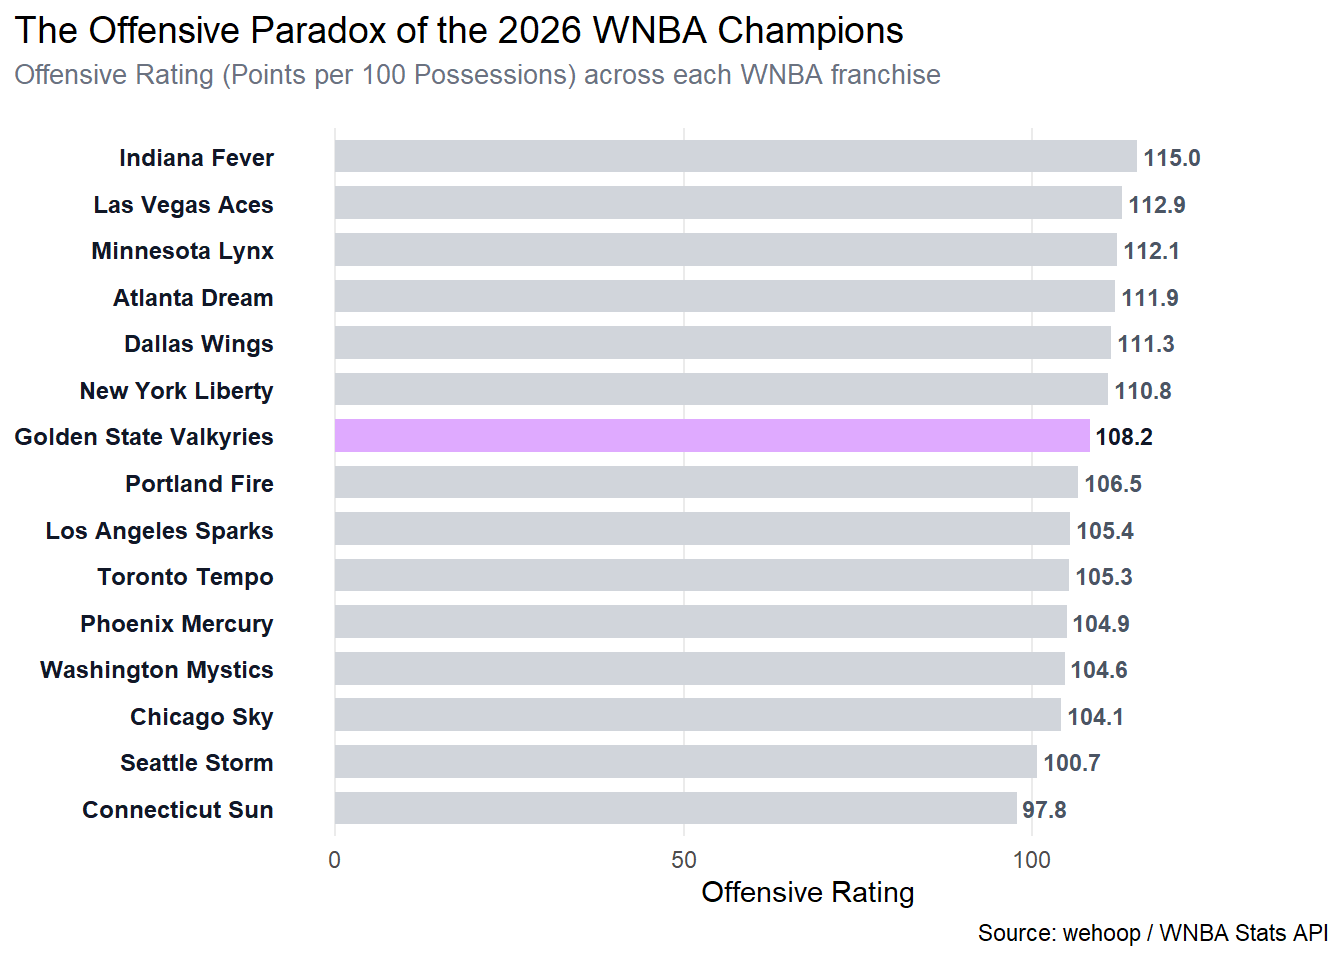
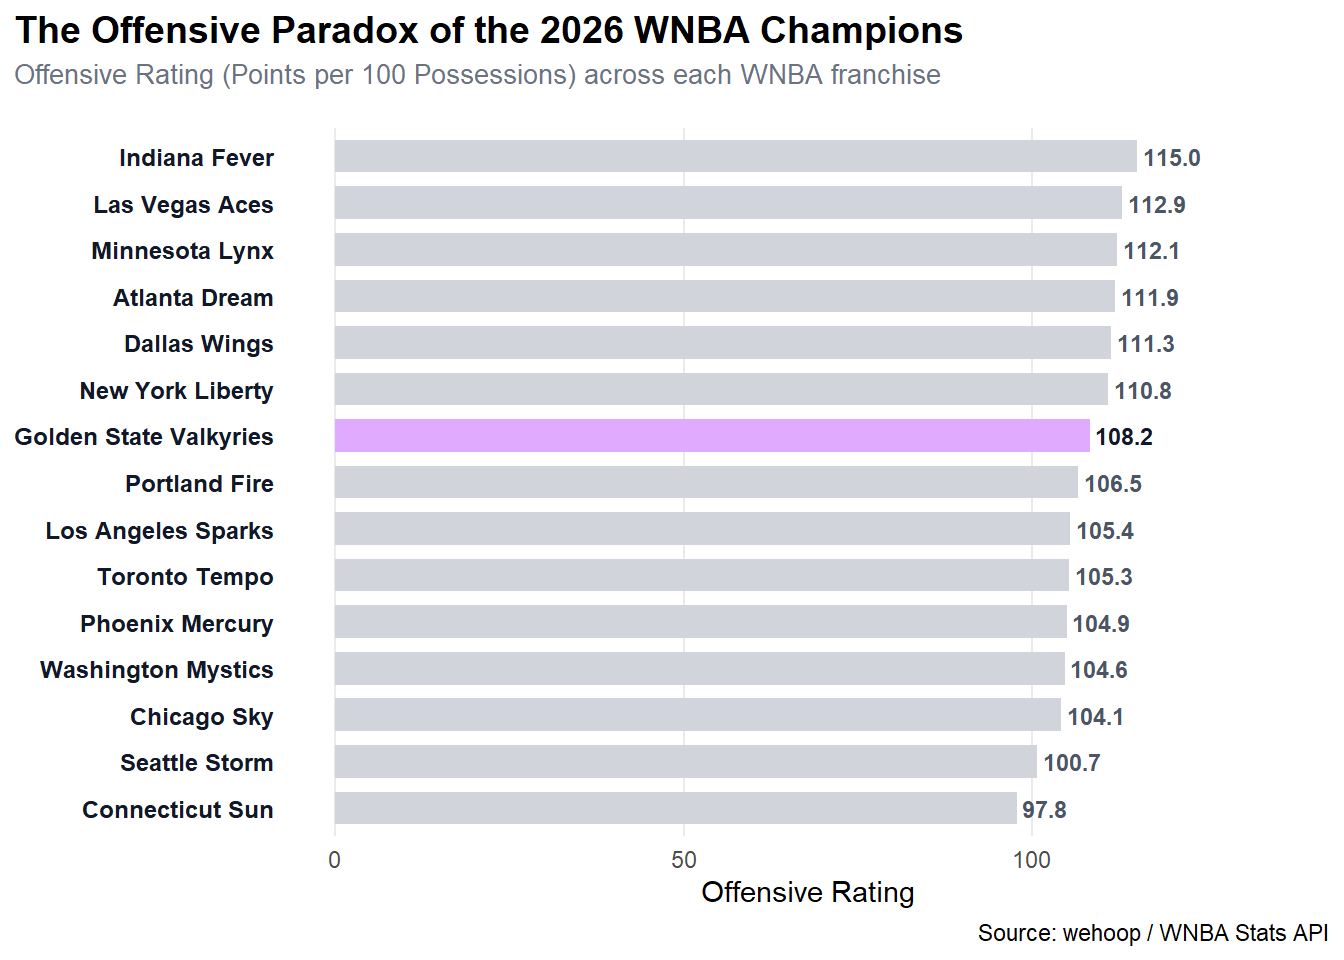
bolded graph titles

Changed region(s): [[0.0312, 0.0, 0.7188, 0.0625]]

diff --git a/posts/wnba-valkyries-champions/index.html b/posts/wnba-valkyries-champions/index.html
@@ -421,7 +421,7 @@ pre > code.sourceCode > span > a:first-child::before { text-decoration: underlin
 <span id="cb1-40"><a href="#cb1-40" aria-hidden="true" tabindex="-1"></a>  ) <span class="sc">+</span></span>
 <span id="cb1-41"><a href="#cb1-41" aria-hidden="true" tabindex="-1"></a>  <span class="fu">theme_minimal</span>(<span class="at">base_family =</span> <span class="st">"sans"</span>) <span class="sc">+</span></span>
 <span id="cb1-42"><a href="#cb1-42" aria-hidden="true" tabindex="-1"></a>  <span class="fu">theme</span>(</span>
-<span id="cb1-43"><a href="#cb1-43" aria-hidden="true" tabindex="-1"></a>    <span class="at">plot.title =</span> <span class="fu">element_markdown</span>(<span class="at">size =</span> <span class="dv">14</span>, <span class="at">margin =</span> <span class="fu">margin</span>(<span class="at">b =</span> <span class="dv">5</span>)),</span>
+<span id="cb1-43"><a href="#cb1-43" aria-hidden="true" tabindex="-1"></a>    <span class="at">plot.title =</span> <span class="fu">element_markdown</span>(<span class="at">size =</span> <span class="dv">14</span>, <span class="at">margin =</span> <span class="fu">margin</span>(<span class="at">b =</span> <span class="dv">5</span>), <span class="at">face =</span> <span class="st">"bold"</span>),</span>
 <span id="cb1-44"><a href="#cb1-44" aria-hidden="true" tabindex="-1"></a>    <span class="at">plot.subtitle =</span> <span class="fu">element_text</span>(<span class="at">size =</span> <span class="dv">10</span>, <span class="at">color =</span> <span class="st">"#6b7280"</span>, <span class="at">margin =</span> <span class="fu">margin</span>(<span class="at">b =</span> <span class="dv">15</span>)),</span>
 <span id="cb1-45"><a href="#cb1-45" aria-hidden="true" tabindex="-1"></a>    <span class="at">panel.grid.major.y =</span> <span class="fu">element_blank</span>(),</span>
 <span id="cb1-46"><a href="#cb1-46" aria-hidden="true" tabindex="-1"></a>    <span class="at">panel.grid.minor =</span> <span class="fu">element_blank</span>(),</span>
@@ -485,7 +485,7 @@ pre > code.sourceCode > span > a:first-child::before { text-decoration: underlin
 <span id="cb2-37"><a href="#cb2-37" aria-hidden="true" tabindex="-1"></a>  ) <span class="sc">+</span></span>
 <span id="cb2-38"><a href="#cb2-38" aria-hidden="true" tabindex="-1"></a>  <span class="fu">theme_minimal</span>(<span class="at">base_family =</span> <span class="st">"sans"</span>) <span class="sc">+</span></span>
 <span id="cb2-39"><a href="#cb2-39" aria-hidden="true" tabindex="-1"></a>  <span class="fu">theme</span>(</span>
-<span id="cb2-40"><a href="#cb2-40" aria-hidden="true" tabindex="-1"></a>    <span class="at">plot.title =</span> <span class="fu">element_markdown</span>(<span class="at">size =</span> <span class="dv">14</span>, <span class="at">margin =</span> <span class="fu">margin</span>(<span class="at">b =</span> <span class="dv">5</span>)),</span>
+<span id="cb2-40"><a href="#cb2-40" aria-hidden="true" tabindex="-1"></a>    <span class="at">plot.title =</span> <span class="fu">element_markdown</span>(<span class="at">size =</span> <span class="dv">14</span>, <span class="at">margin =</span> <span class="fu">margin</span>(<span class="at">b =</span> <span class="dv">5</span>), <span class="at">face =</span> <span class="st">"bold"</span>),</span>
 <span id="cb2-41"><a href="#cb2-41" aria-hidden="true" tabindex="-1"></a>    <span class="at">plot.subtitle =</span> <span class="fu">element_markdown</span>(<span class="at">size =</span> <span class="dv">10</span>, <span class="at">color =</span> <span class="st">"#6b7280"</span>, <span class="at">margin =</span> <span class="fu">margin</span>(<span class="at">b =</span> <span class="dv">15</span>)),</span>
 <span id="cb2-42"><a href="#cb2-42" aria-hidden="true" tabindex="-1"></a>    <span class="at">panel.grid.minor =</span> <span class="fu">element_blank</span>(),</span>
 <span id="cb2-43"><a href="#cb2-43" aria-hidden="true" tabindex="-1"></a>    <span class="at">plot.title.position =</span> <span class="st">"plot"</span></span>
@@ -557,7 +557,7 @@ pre > code.sourceCode > span > a:first-child::before { text-decoration: underlin
 <span id="cb3-44"><a href="#cb3-44" aria-hidden="true" tabindex="-1"></a>  ) <span class="sc">+</span></span>
 <span id="cb3-45"><a href="#cb3-45" aria-hidden="true" tabindex="-1"></a>  <span class="fu">theme_minimal</span>(<span class="at">base_family =</span> <span class="st">"sans"</span>) <span class="sc">+</span></span>
 <span id="cb3-46"><a href="#cb3-46" aria-hidden="true" tabindex="-1"></a>  <span class="fu">theme</span>(</span>
-<span id="cb3-47"><a href="#cb3-47" aria-hidden="true" tabindex="-1"></a>    <span class="at">plot.title =</span> <span class="fu">element_markdown</span>(<span class="at">size =</span> <span class="dv">14</span>, <span class="at">margin =</span> <span class="fu">margin</span>(<span class="at">b =</span> <span class="dv">5</span>)),</span>
+<span id="cb3-47"><a href="#cb3-47" aria-hidden="true" tabindex="-1"></a>    <span class="at">plot.title =</span> <span class="fu">element_markdown</span>(<span class="at">size =</span> <span class="dv">14</span>, <span class="at">margin =</span> <span class="fu">margin</span>(<span class="at">b =</span> <span class="dv">5</span>), <span class="at">face =</span> <span class="st">"bold"</span>),</span>
 <span id="cb3-48"><a href="#cb3-48" aria-hidden="true" tabindex="-1"></a>    <span class="at">plot.subtitle =</span> <span class="fu">element_text</span>(<span class="at">size =</span> <span class="dv">10</span>, <span class="at">color =</span> <span class="st">"#6b7280"</span>, <span class="at">margin =</span> <span class="fu">margin</span>(<span class="at">b =</span> <span class="dv">15</span>)),</span>
 <span id="cb3-49"><a href="#cb3-49" aria-hidden="true" tabindex="-1"></a>    <span class="at">panel.grid.minor =</span> <span class="fu">element_blank</span>(),</span>
 <span id="cb3-50"><a href="#cb3-50" aria-hidden="true" tabindex="-1"></a>    <span class="at">legend.position =</span> <span class="st">"right"</span>,</span>

diff --git a/index.html b/index.html
@@ -379,7 +379,7 @@ window.Quarto = {
 
 <div class="quarto-listing quarto-listing-container-default" id="listing-listing">
 <div class="list quarto-listing-default">
-<div class="quarto-post image-right" data-index="0" data-categories="UHJvamVjdCUyMDElMkNQcm9qZWN0JTIwMg==" data-listing-date-sort="1794549600000" data-listing-file-modified-sort="1794596712253" data-listing-date-modified-sort="NaN" data-listing-reading-time-sort="9" data-listing-word-count-sort="1793">
+<div class="quarto-post image-right" data-index="0" data-categories="UHJvamVjdCUyMDElMkNQcm9qZWN0JTIwMg==" data-listing-date-sort="1794549600000" data-listing-file-modified-sort="1794605121844" data-listing-date-modified-sort="NaN" data-listing-reading-time-sort="10" data-listing-word-count-sort="1802">
 <div class="thumbnail"><a href="./posts/wnba-valkyries-champions/index.html" class="no-external-icon">
 
 <img loading="lazy" src="./posts/wnba-valkyries-champions/image.png" class="thumbnail-image">
